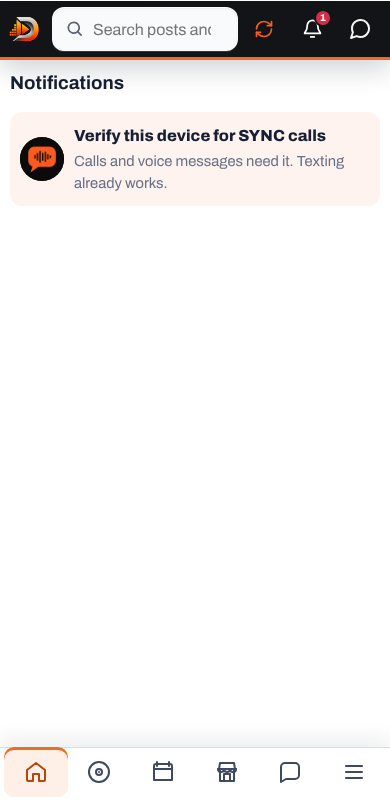
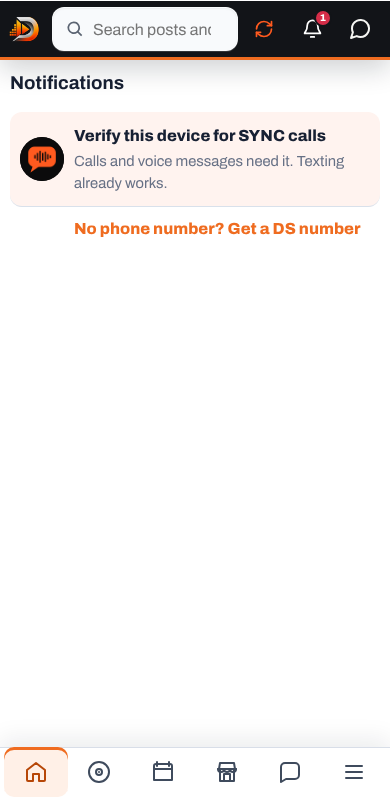
Offer the DS number in the verify-this-device notification
Owner 2026-11-19: "they have to buy the ds- number … just offer it in the
notification … $3 … it's already set up in stripe … it works I test
already." Under "Verify this device for SYNC calls" Notifications now
shows "No phone number? Get a DS number" (44px link), which opens SYNC's
device panel (/sync/?device=register&ds=1) and scrolls to the existing
"Get a DS number · $3" Stripe checkout button. Translated (it, fr, es).

Checks: device-reminder.cjs (the offer is there, on screen, its centre
reachable, the right link), test-device-reminder.cjs; sync-network-number.cjs
still passes. device-reminder.js 2, sync-network-number.js 3,
feed-enhancements.css 530, i18n-people.js 24. CLAUDE.md records what is
still to confirm (that the DS number registers the device for calls; live
mode; the pop-up's all-in price).

Claude-Session: https://claude.ai/code/session_01B3uuzLt37Dbx4AQXsgz3PN

Changed region(s): [[0.1846, 0.25, 0.9231, 0.3125]]

diff --git a/feed.html b/feed.html
@@ -331,7 +331,7 @@ a.composer-avatar { text-decoration: none; } /* audit A9: the composer photo ope
 }
 </style>
 <link rel="stylesheet" href="assets/soft-ui.css?v=428">
-<link rel="stylesheet" href="assets/feed-enhancements.css?v=529">
+<link rel="stylesheet" href="assets/feed-enhancements.css?v=530">
 <link rel="stylesheet" href="assets/facebook-import.css?v=342">
 <link rel="stylesheet" href="assets/pivot.css?v=3">
 <link rel="stylesheet" href="assets/invite-sharing.css?v=2">
@@ -347,7 +347,7 @@ a.composer-avatar { text-decoration: none; } /* audit A9: the composer photo ope
 <link rel="stylesheet" href="assets/artist-hq.css?v=6">
 <script src="assets/languages.js?v=231" defer></script>
 <script src="assets/brand-language-aliases.js?v=8" defer></script>
-<script src="assets/i18n-people.js?v=23" defer></script>
+<script src="assets/i18n-people.js?v=24" defer></script>
 <script src="assets/time-label.js?v=1"></script>
 <script src="assets/i18n-music.js?v=17" defer></script>
 <script src="assets/i18n.js?v=410" defer></script>
@@ -1918,7 +1918,7 @@ document.addEventListener("visibilitychange", () => { if (document.visibilitySta
 <script src="assets/invite-sharing.js?v=1" defer></script>
 <script src="assets/tribes-art.js?v=1" defer></script>
 <script src="assets/tribe-create.js?v=1" defer></script>
-<script src="assets/device-reminder.js?v=1" defer></script>
+<script src="assets/device-reminder.js?v=2" defer></script>
 <script src="assets/feed-enhancements.js?v=592" defer></script>
 <script src="assets/profile-onboarding.js?v=12" defer></script>
 <script src="assets/session-activity.js?v=296" defer></script>

diff --git a/assets/i18n-people.js b/assets/i18n-people.js
@@ -4,6 +4,7 @@
  const t=window.danzstakTranslations||(window.danzstakTranslations={en:{}});
  const add={
 "it": {
+"No phone number? Get a DS number": "Niente numero di telefono? Prendi un numero DS",
 "Verify this device for SYNC calls": "Verifica questo dispositivo per le chiamate SYNC",
 "Calls and voice messages need it. Texting already works.": "Serve per chiamate e messaggi vocali. I messaggi di testo funzionano già.",
 // Directive F4c: profile picture history (profile-editor.js)
@@ -124,6 +125,7 @@
 "Choose your own username.": "Scegli il tuo username."
 },
 "fr": {
+"No phone number? Get a DS number": "Pas de numéro de téléphone ? Prends un numéro DS",
 "Verify this device for SYNC calls": "Vérifie cet appareil pour les appels SYNC",
 "Calls and voice messages need it. Texting already works.": "Il le faut pour les appels et messages vocaux. Les messages texte marchent déjà.",
 // Directive F4c: profile picture history (profile-editor.js)
@@ -244,6 +246,7 @@
 "Choose your own username.": "Choisis ton propre nom d’utilisateur."
 },
 "es": {
+"No phone number? Get a DS number": "¿Sin número de teléfono? Consigue un número DS",
 "Verify this device for SYNC calls": "Verifica este dispositivo para las llamadas de SYNC",
 "Calls and voice messages need it. Texting already works.": "Hace falta para llamadas y mensajes de voz. Los mensajes de texto ya funcionan.",
 // Directive F4c: profile picture history (profile-editor.js)

diff --git a/messages.html b/messages.html
@@ -40,7 +40,7 @@
 <script src="assets/languages.js?v=231" defer></script>
 <script src="assets/brand-language-aliases.js?v=7" defer></script>
 <script src="assets/i18n-sync.js?v=30" defer></script>
-<script src="assets/i18n-people.js?v=23" defer></script>
+<script src="assets/i18n-people.js?v=24" defer></script>
 <script src="assets/i18n.js?v=410" defer></script>
 <script src="assets/sync-app.js?v=6" defer></script>
 <script src="assets/mobile-keyboard.js?v=232" defer></script>
@@ -184,7 +184,7 @@
 <script src="assets/call-devices.js?v=17" defer></script>
 <script src="assets/phone-verification.js?v=10" defer></script>
 <script src="assets/purchase-terms.js?v=2" defer></script>
-<script src="assets/sync-network-number.js?v=2" defer></script>
+<script src="assets/sync-network-number.js?v=3" defer></script>
 <script src="assets/push-notifications.js?v=310" defer></script>
 <nav class="ds-mobile-nav" aria-label="DanzStak mobile navigation"></nav>
 <script src="assets/media-scale.js?v=1" defer></script>

diff --git a/sync/index.html b/sync/index.html
@@ -44,7 +44,7 @@
 <script src="assets/languages.js?v=231" defer></script>
 <script src="assets/brand-language-aliases.js?v=7" defer></script>
 <script src="assets/i18n-sync.js?v=30" defer></script>
-<script src="assets/i18n-people.js?v=23" defer></script>
+<script src="assets/i18n-people.js?v=24" defer></script>
 <script src="assets/i18n.js?v=410" defer></script>
 <script src="assets/sync-app.js?v=6" defer></script>
 <script src="assets/mobile-keyboard.js?v=232" defer></script>
@@ -188,7 +188,7 @@
 <script src="assets/call-devices.js?v=17" defer></script>
 <script src="assets/phone-verification.js?v=10" defer></script>
 <script src="assets/purchase-terms.js?v=2" defer></script>
-<script src="assets/sync-network-number.js?v=2" defer></script>
+<script src="assets/sync-network-number.js?v=3" defer></script>
 <script src="assets/push-notifications.js?v=310" defer></script>
 <nav class="ds-mobile-nav" aria-label="DanzStak mobile navigation"></nav>
 <script src="assets/media-scale.js?v=1" defer></script>

diff --git a/assets/sync-network-number.js b/assets/sync-network-number.js
@@ -4,7 +4,7 @@
   const status = document.getElementById("syncNetworkNumberStatus");
   const buy = document.getElementById("buySyncNetworkNumber");
   if (!status || !buy) return;
-  let loading = false;
+  let loading = false, wantsNumber = new URLSearchParams(location.search).get("ds") === "1";
 
   async function request(path, options = {}) {
     const controller = new AbortController();
@@ -25,6 +25,8 @@
     status.textContent = active ? `Your private SYNC alias is ${data.alias}.` : data?.checkoutAvailable === false ? "DS number Test Mode checkout is not available on this build." : "No DS number is assigned to this account yet.";
     buy.hidden = active || data?.checkoutAvailable === false;
     buy.disabled = false;
+    // Arrived from the "No phone number? Get a DS number" notification: show the button.
+    if (wantsNumber && !buy.hidden) { wantsNumber = false; buy.scrollIntoView({ block: "center" }); buy.focus({ preventScroll: true }); }
   }
 
   async function load() {

diff --git a/assets/device-reminder.js b/assets/device-reminder.js
@@ -46,7 +46,14 @@
     const line = document.createElement("span"); line.textContent = t("Calls and voice messages need it. Texting already works.");
     text.append(title, line);
     link.append(icon, text);
-    return link;
+    // Owner 2026-11-19: "if they don't wish to put their phone number in [they] can get a ds- number … they have to buy
+    // the ds- number … just offer it in the notification" ($3, the existing Stripe checkout in SYNC's device panel).
+    const ds = document.createElement("a");
+    ds.className = "notification-ds-link"; ds.href = "/sync/?device=register&ds=1";
+    ds.textContent = t("No phone number? Get a DS number");
+    const both = document.createDocumentFragment();
+    both.append(link, ds);
+    return both;
   }
   window.danzstakDeviceReminder = Object.freeze({ needed, unread, markSeen, row });
 })();

diff --git a/profile.html b/profile.html
@@ -43,7 +43,7 @@ h1{margin:0 0 6px;font-size:34px;line-height:var(--ds-leading-tight,1.2);letter-
 <link rel="stylesheet" href="assets/profile-app-header.css?v=4">
 <script src="assets/languages.js?v=231" defer></script>
 <script src="assets/brand-language-aliases.js?v=7" defer></script>
-<script src="assets/i18n-people.js?v=23" defer></script>
+<script src="assets/i18n-people.js?v=24" defer></script>
 <script src="assets/i18n.js?v=410" defer></script>
 <script src="assets/mobile-keyboard.js?v=232" defer></script>
 <link rel="stylesheet" href="assets/facebook-import.css?v=342">

diff --git a/booking.html b/booking.html
@@ -34,7 +34,7 @@
   <script src="assets/languages.js?v=231" defer></script>
 <script src="assets/brand-language-aliases.js?v=7" defer></script>
 <script src="assets/i18n-music.js?v=17" defer></script>
-<script src="assets/i18n-people.js?v=23" defer></script>
+<script src="assets/i18n-people.js?v=24" defer></script>
 <script src="assets/i18n-sync.js?v=30" defer></script>
 <script src="assets/i18n.js?v=410" defer></script>
 <link rel="stylesheet" href="assets/top-search.css?v=2">

diff --git a/bazaar.html b/bazaar.html
@@ -16,7 +16,7 @@
 <script src="assets/languages.js?v=231" defer></script>
 <script src="assets/brand-language-aliases.js?v=7" defer></script>
 <script src="assets/i18n-music.js?v=17" defer></script>
-<script src="assets/i18n-people.js?v=23" defer></script>
+<script src="assets/i18n-people.js?v=24" defer></script>
 <script src="assets/i18n-sync.js?v=30" defer></script>
 <script src="assets/i18n.js?v=410" defer></script>
 <link rel="stylesheet" href="assets/top-search.css?v=2">

diff --git a/epk.html b/epk.html
@@ -22,7 +22,7 @@
 <script src="assets/languages.js?v=231" defer></script>
 <script src="assets/brand-language-aliases.js?v=7" defer></script>
 <script src="assets/i18n-music.js?v=17" defer></script>
-<script src="assets/i18n-people.js?v=23" defer></script>
+<script src="assets/i18n-people.js?v=24" defer></script>
 <script src="assets/i18n-sync.js?v=30" defer></script>
 <script src="assets/i18n.js?v=410" defer></script>
 <link rel="stylesheet" href="assets/top-search.css?v=2">

diff --git a/record-stores.html b/record-stores.html
@@ -17,7 +17,7 @@
 <script src="assets/languages.js?v=231" defer></script>
 <script src="assets/brand-language-aliases.js?v=7" defer></script>
 <script src="assets/i18n-music.js?v=17" defer></script>
-<script src="assets/i18n-people.js?v=23" defer></script>
+<script src="assets/i18n-people.js?v=24" defer></script>
 <script src="assets/i18n-sync.js?v=30" defer></script>
 <script src="assets/i18n.js?v=410" defer></script>
 <link rel="stylesheet" href="assets/top-search.css?v=2">

diff --git a/booking-selections.html b/booking-selections.html
@@ -17,7 +17,7 @@
 <script src="assets/languages.js?v=231" defer></script>
 <script src="assets/brand-language-aliases.js?v=7" defer></script>
 <script src="assets/i18n-music.js?v=17" defer></script>
-<script src="assets/i18n-people.js?v=23" defer></script>
+<script src="assets/i18n-people.js?v=24" defer></script>
 <script src="assets/i18n-sync.js?v=30" defer></script>
 <script src="assets/i18n.js?v=410" defer></script>
 <link rel="stylesheet" href="assets/app-tabs.css?v=1">
